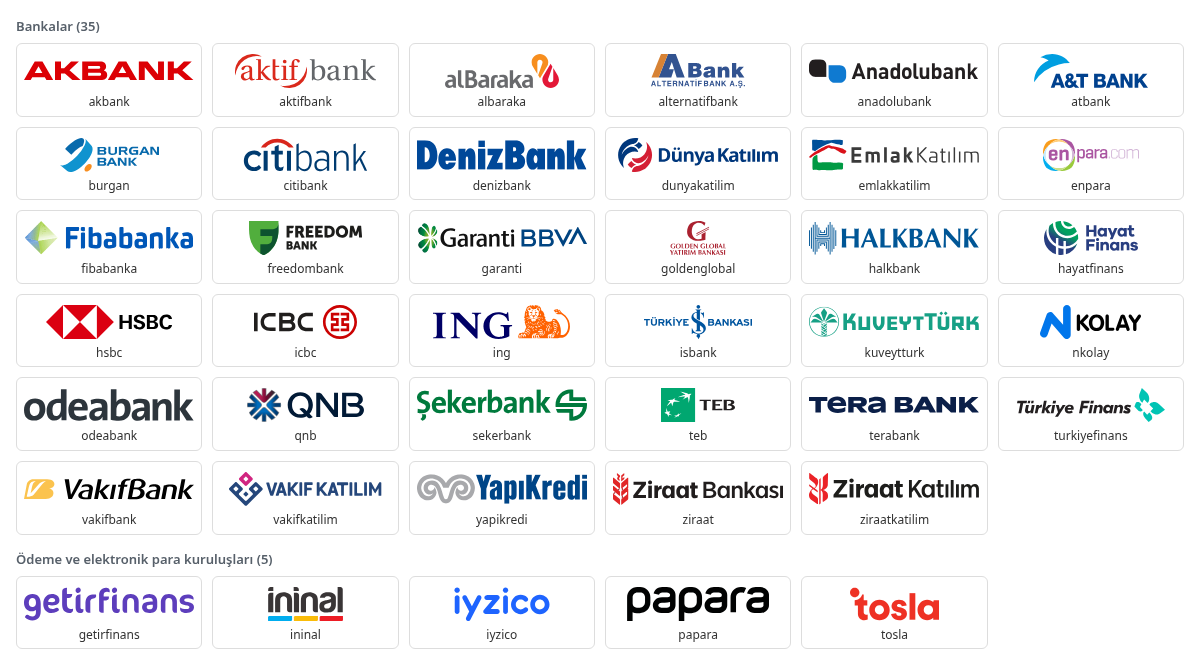
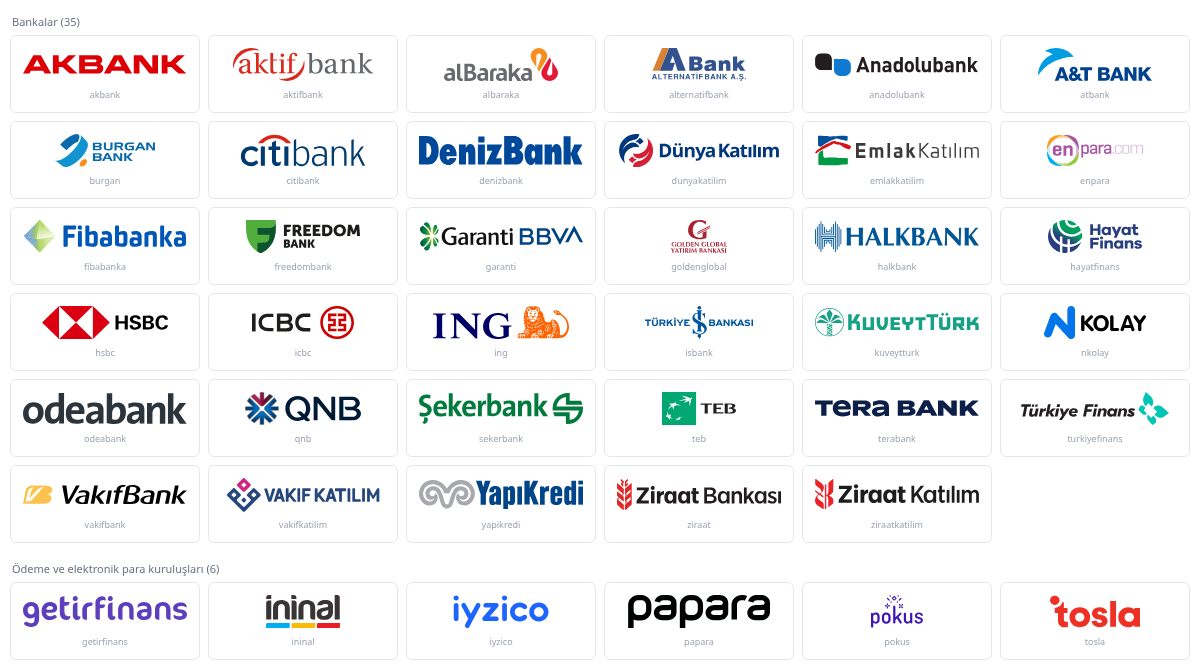
Pokus eklendi (35 banka + 6 odeme kurulusu)
Pokus, TT Odeme ve Elektronik Para Hizmetleri A.S.'nin kart markasi.
BIN veri tabanlari tuzel kisiligi donduruyor, musteri ise yalniz markayi
taniyor; ad eslestiricide ikisi de ayni logoya cikiyor:
  findBankSlug('TT ODEME VE ELEKTRONIK PARA HIZMETLERI A.S.') -> 'pokus'
  findBankSlug('POKUS')                                       -> 'pokus'

Logo kurumun web sitesindeki satir ici SVG'den; <defs>/<use> yerine duz
<path> olarak yazildi (repo kalibi). Onizleme kareleri yenilendi; odeme
satiri artik tam dolu (6 sutun).

diff --git a/index.js b/index.js
@@ -76,6 +76,11 @@ export const MATCH = [
   ['getirfinans', 'getirfinans'],
   ['iyzi', 'iyzico'], // iyzico'nun kendi BIN sorgusu "iyzico", BIN veri tabanları "İyzi Ödeme ve Elektronik Para…" diyor
   ['tosla', 'tosla'],
+  // Pokus, TT Ödeme ve Elektronik Para Hizmetleri A.Ş.'nin kart markası. BIN
+  // veri tabanları TÜZEL KİŞİLİĞİ döndürüyor ("TT ÖDEME VE ELEKTRONİK PARA
+  // HİZMETLERİ A.Ş."), müşteri ise yalnız markayı tanıyor; ikisi de logoya bağlı.
+  ['pokus', 'pokus'],
+  ['ttodeme', 'pokus'],
   // kısa anahtarlar EN SONDA
   ['atbank', 'atbank'],
   ['abank', 'alternatifbank'],

diff --git a/bank-logos.css b/bank-logos.css
@@ -31,6 +31,7 @@
 .bank-logo--nkolay{aspect-ratio:1000/336.29;background-image:url("svg/nkolay.svg")}
 .bank-logo--odeabank{aspect-ratio:129/24;background-image:url("svg/odeabank.svg")}
 .bank-logo--papara{aspect-ratio:707.8/170.17;background-image:url("svg/papara.svg")}
+.bank-logo--pokus{aspect-ratio:124/81;background-image:url("svg/pokus.svg")}
 .bank-logo--qnb{aspect-ratio:1550/452;background-image:url("svg/qnb.svg")}
 .bank-logo--sekerbank{aspect-ratio:189.767/35.142;background-image:url("svg/sekerbank.svg")}
 .bank-logo--teb{aspect-ratio:180.03/82.94;background-image:url("svg/teb.svg")}

diff --git a/logos.js b/logos.js
@@ -291,6 +291,16 @@ export default [
     "license": "trademark"
   },
   {
+    "slug": "pokus",
+    "name": "Pokus (e-para)",
+    "type": "payment",
+    "file": "svg/pokus.svg",
+    "width": 124,
+    "height": 81,
+    "source": "kurumun web sitesi (satır içi SVG)",
+    "license": "trademark"
+  },
+  {
     "slug": "qnb",
     "name": "QNB",
     "type": "bank",

diff --git a/README.md b/README.md
@@ -2,7 +2,7 @@
 
 **Turkish bank & payment institution logos in SVG** · [English below](#english)
 
-Türkiye'deki 35 banka ve 5 ödeme / elektronik para kuruluşunun **orijinal**
+Türkiye'deki 35 banka ve 6 ödeme / elektronik para kuruluşunun **orijinal**
 logoları, SVG biçiminde. Hiçbiri elle çizilmedi: her dosya aşağıda yazan
 kaynaktan alındı, render edilip gözle doğrulandı ve web'de doğrudan
 kullanılacak şekilde normalleştirildi. (Tek istisna Freedom Bank: raster bir
@@ -11,9 +11,9 @@ logodan otomatik vektörleştirildi — bkz. not.)
 Logolar [Domainhizmetleri](https://www.domainhizmetleri.com)'nin kartla ödeme
 ekranında, kartın hangi bankaya ait olduğunu göstermek için toplandı.
 
-![Önizleme — 40 logo, açık zemin](preview.png)
+![Önizleme — 41 logo, açık zemin](preview.png)
 
-![Önizleme — 40 logo, koyu zemin (svg-white/)](preview-dark.png)
+![Önizleme — 41 logo, koyu zemin (svg-white/)](preview-dark.png)
 
 ## Kullanım
 
@@ -155,7 +155,7 @@ kaynak ve lisans makine tarafından okunabilir biçimde [`logos.json`](logos.jso
 | `ziraat.svg` | Ziraat Bankası | kurumun marka dosyası (PDF · *zb_logo_vek.pdf*) | Kurumun marka varlığı |
 | `ziraatkatilim.svg` | Ziraat Katılım | kurumun web sitesi | Kurumun marka varlığı |
 
-### Ödeme ve elektronik para kuruluşları (5)
+### Ödeme ve elektronik para kuruluşları (6)
 
 | Dosya | Kurum | Kaynak | Lisans |
 |---|---|---|---|
@@ -163,6 +163,7 @@ kaynak ve lisans makine tarafından okunabilir biçimde [`logos.json`](logos.jso
 | `ininal.svg` | ininal (e-para) | seeklogo (EPS → SVG) | Kurumun marka varlığı |
 | `iyzico.svg` | iyzico (ödeme ve e-para) | kurumun marka dosyası ("Beyaz Zeminde Kullanım") | Kurumun marka varlığı |
 | `papara.svg` | Papara (e-para) | seeklogo | Kurumun marka varlığı |
+| `pokus.svg` | Pokus (e-para) | kurumun web sitesi (satır içi SVG) | Kurumun marka varlığı |
 | `tosla.svg` | Tosla (e-para) | kurumun web sitesi | Kurumun marka varlığı |
 
 Commons lisansları Commons API'sinden okundu (2026-09-15). "Kamu malı" olanların
@@ -234,7 +235,7 @@ Depo ayrıca bir lisans vermez; her dosyanın lisansı yukarıdaki tabloda yazı
 
 ## English
 
-Original SVG logos of **35 banks and 5 payment / e-money institutions in Turkey**, collected
+Original SVG logos of **35 banks and 6 payment / e-money institutions in Turkey**, collected
 for the card payment screen of [Domainhizmetleri](https://www.domainhizmetleri.com)
 to show which bank a card belongs to.
 
@@ -260,7 +261,7 @@ to show which bank a card belongs to.
 - **Live examples:** [murattahtaci.github.io/turkish-bank-logos-svg/examples](https://murattahtaci.github.io/turkish-bank-logos-svg/examples/)
 - **Machine-readable list:** [`logos.json`](logos.json)
 - **Licenses per file:** 17 public domain (Wikimedia Commons), 1 CC BY-SA 4.0
-  (A&T Bank — attribute and share alike), 22 trademark assets of the institution.
+  (A&T Bank — attribute and share alike), 23 trademark assets of the institution.
 - **Contributions:** a bank or payment institution missing? Pull requests welcome.
 
 **Trademark notice:** these logos are registered trademarks of their owners.
